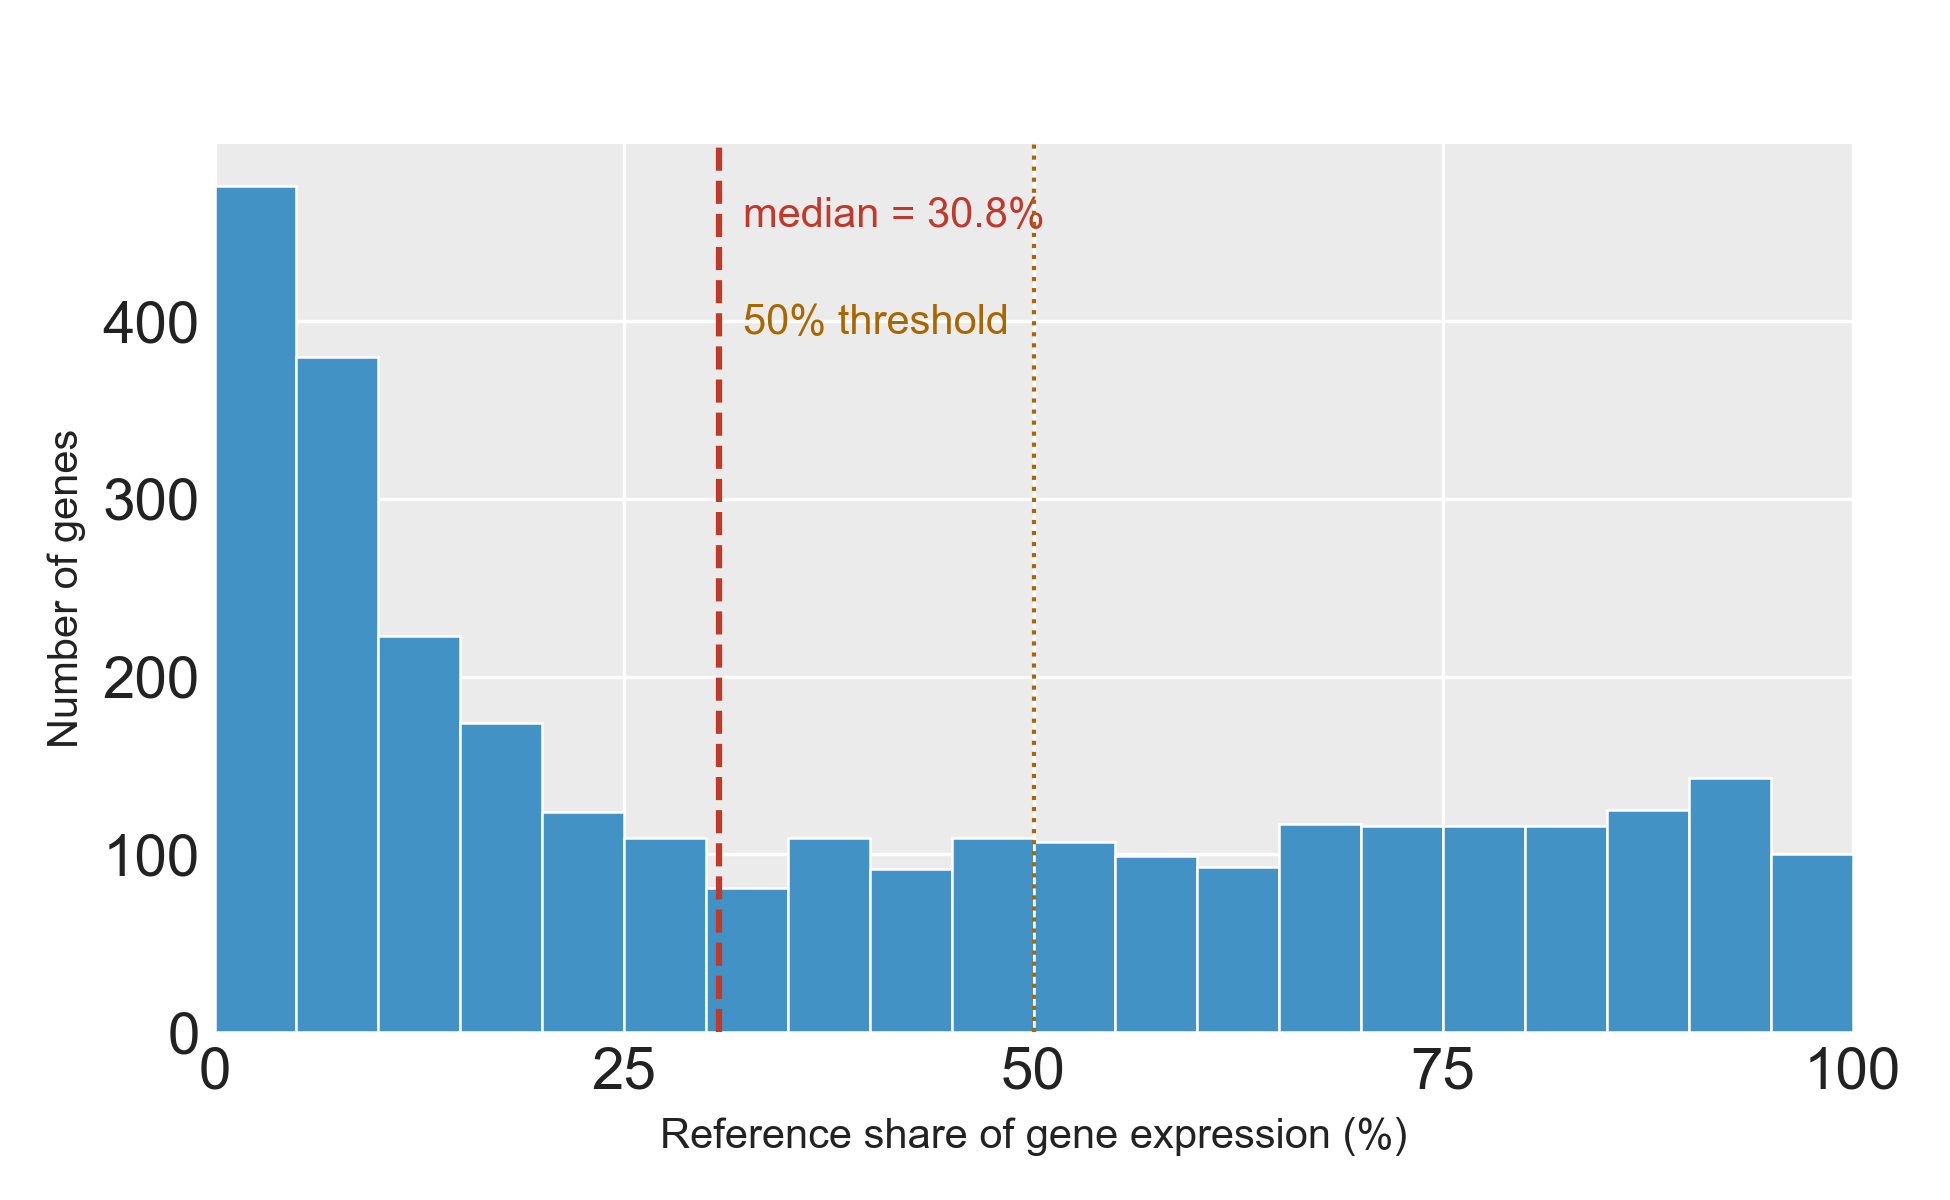
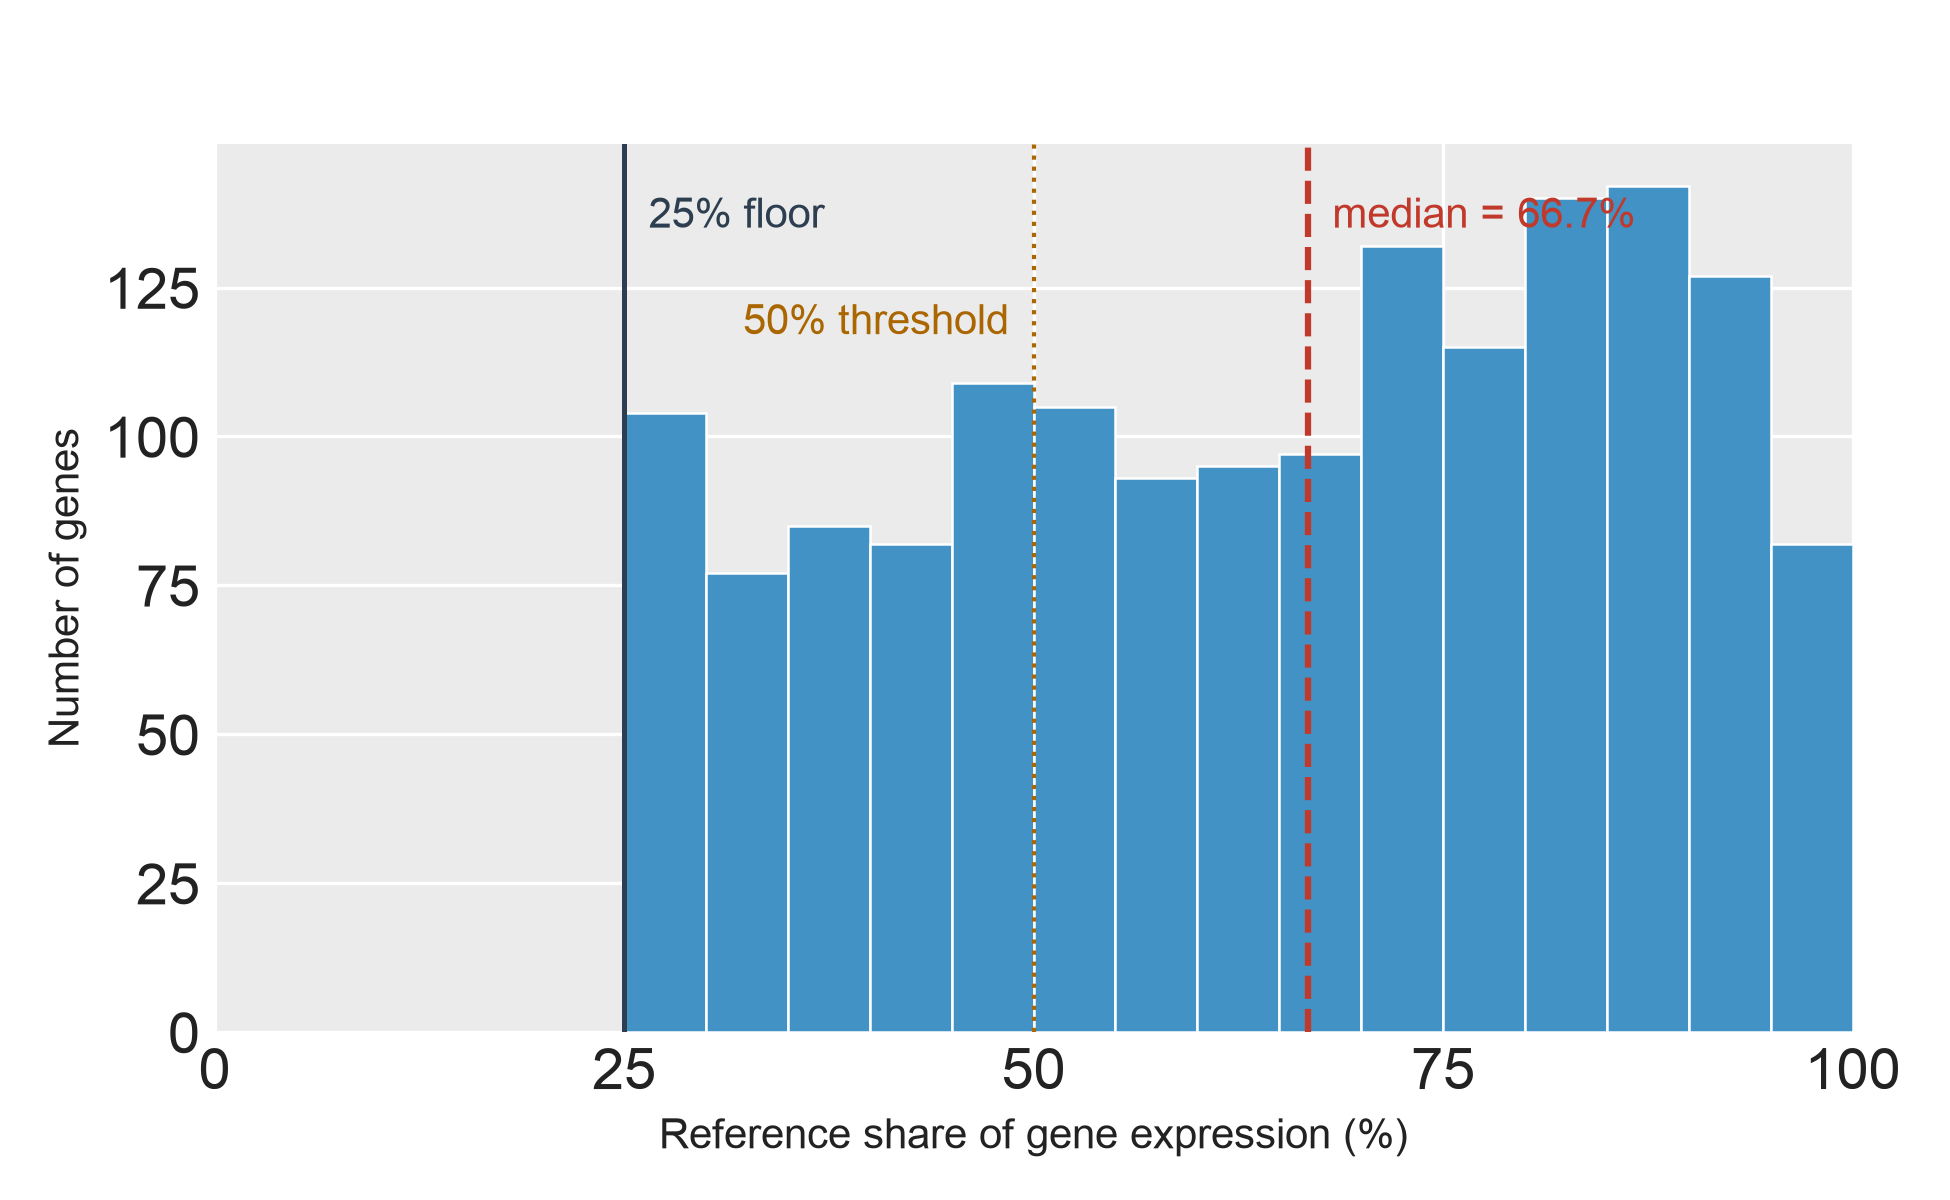
Rebuild SF26 reference-share figure for the floored population
Recreate the deleted data_export.R (was in PairSetDescriptives, f6d96bc^) with
two corrections for floor consistency: all-isoform denominator (not just
non-NMD) and all_samples DMSO basis (matches 02_build_profiles selection/floor).
Retained-only view per Pete: n=1,585 genes, all >=25% by construction, median
66.7%, 71.2% >=50% -- the honest inverse of the artifactual pre-floor 31%
median. Added a 25% floor reference line. Visually verified.

diff --git a/figures/SupplementalFigures/SF26_ReferenceShare/figure_sf26_reference_share.py b/figures/SupplementalFigures/SF26_ReferenceShare/figure_sf26_reference_share.py
@@ -1,12 +1,15 @@
-"""SF26 — Reference-isoform share of gene expression across pop_BC (n = 3,009 genes).
+"""SF26 — Reference-isoform share of gene expression across the floored pop_BC
+(n = 1,585 genes; retained after the 25% reference-share floor, 2026-07-10).
 
 Standalone rebuild of the reference-share panel that was previously bundled
 as Panel B of PairSetDescriptives. Split per Yul-era paper numbering so
 the paper's SF26 reference resolves to one figure.
 
-Value plotted per gene: reference-isoform DMSO 4-CT mean expression divided
-by the parent gene's total non-NMD expression (both from the Isopair
-pipeline; see Methods, pop_BC / Reference isoform).
+Value plotted per gene: reference-isoform DMSO mean expression (all_samples
+basis) divided by the parent gene's total expression across all isoforms
+(both from the Isopair pipeline; see Methods, pop_BC / Reference isoform).
+By construction every retained gene has share >= 25%; the distribution starts
+at the floor and is centered near the true dominant share (median ~67%).
 
 Style: matplotlib rendered with ggplot-mimic theme (grey panel + white
 gridlines) so the panel visually matches SF1-SF23. See
@@ -60,8 +63,10 @@ def main():
     bins = np.arange(0, 105, 5)
     ax.hist(vals, bins=bins, color=BAR_COLOR, edgecolor="white", linewidth=0.6, zorder=3)
 
+    floor_pct = float(summary.loc["floor_pct"])
     ax.axvline(med, linestyle="--", color="#c0392b", linewidth=1.5, zorder=4)
     ax.axvline(50, linestyle=":",  color="#aa6600", linewidth=1.0, zorder=4)
+    ax.axvline(floor_pct, linestyle="-", color="#2c3e50", linewidth=1.2, zorder=4)
     ymax = ax.get_ylim()[1]
     ax.text(
         med + 1.5, ymax * 0.94,
@@ -76,6 +81,13 @@ def main():
         ha="right", va="top",
         fontsize=BODY_FS,
         color="#aa6600",
+    )
+    ax.text(
+        floor_pct + 1.5, ymax * 0.94,
+        f"{floor_pct:.0f}% floor",
+        ha="left", va="top",
+        fontsize=BODY_FS,
+        color="#2c3e50",
     )
 
     ax.set_xlabel("Reference share of gene expression (%)", fontsize=BODY_FS)
